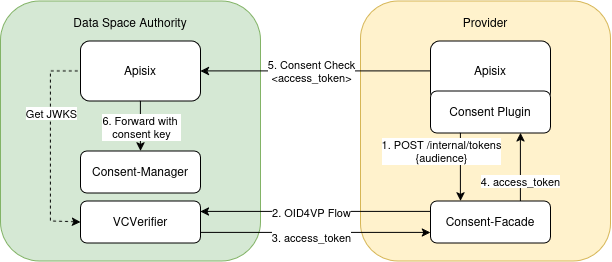
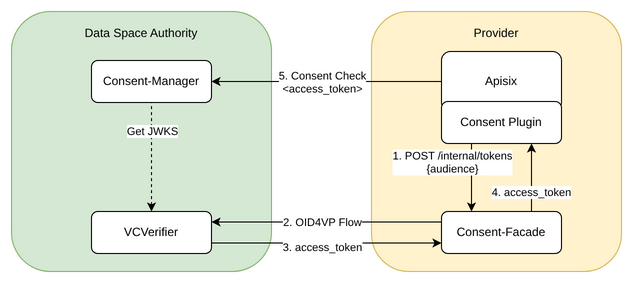
Ticket #109: ADR 0008, release notes 10.16.0 and doc links for dsc-consent-manager
Supersede ADRs 0001-0005 by ADR 0008, drop the authority APISIX hop from
the consent check flow diagram, add the 10.16.0 release notes and update
the consent links in the READMEs.

diff --git a/doc/adr/0008-dsc-consent-manager.md b/doc/adr/0008-dsc-consent-manager.md
@@ -1,0 +1,75 @@
+# 0008 - Replace the Node consent-manager with dsc-consent-manager on PostgreSQL
+
+**Status:** Accepted
+**Date:** 2026-11-02
+**Applies to:** `FIWARE/data-space-connector`, [dsc-consent-manager](https://github.com/wistefan/dsc-consent-manager), [consent-plugin](https://github.com/SEAMWARE/consent-plugin)
+**Supersedes:** [0001](0001-oid4vp-for-participant-authentication.md), [0002](0002-reuse-facade-oid4vp-client.md), [0003](0003-token-endpoint-not-consent-proxy.md), [0004](0004-map-oid4vp-tokens-to-participants-by-did.md), [0005](0005-vc-based-participant-onboarding.md)
+**Context doc:** [`../CONSENT_MANAGEMENT.md`](../CONSENT_MANAGEMENT.md)
+
+## Context
+
+ADRs 0001-0005 bolted OID4VP onto the Prometheus-X consent-manager (Node, MongoDB). That service
+authenticates its participant-side endpoints with one shared secret, the consent key, so the
+authority had to run an APISIX facade that validated the caller's OID4VP token and then injected the
+key. The key carried no caller identity, and the open gaps listed in the old design (identity lookups
+across participants, the bearer-equivalent user key, unauthenticated onboarding, client secrets stored
+on participant records) all needed changes in a codebase we do not own.
+
+`dsc-consent-manager` (Java, PostgreSQL, published as the
+`oci://quay.io/fiware/helm-charts/dsc-consent-manager` chart) is a stateless OAuth2 resource server.
+It validates the JWT of a configured identity provider on every call and takes the caller's identity
+and role from the token's claims. Its `/v1` API scopes every read to the caller, signs consent
+receipts, and derives privacy notices from the same contract-service API the consent-facade serves.
+
+## Decision
+
+- The trust-anchor chart (2.0.0) deploys `dsc-consent-manager` as the `consent-manager` subchart
+  alias, on the chart's Zalando `managedPostgres` (fixed user and database `consent_manager`). The
+  consent MongoDB, the consent key and the authority APISIX facade routes are removed. The authority
+  gateway only publishes the host and does not authenticate.
+- Every caller authenticates with a JWT from the authority VCVerifier service `consent-manager`
+  (audience `consent-manager`), which the consent-manager trusts as `identityProviders.primary`. The
+  verifier copies the credential's `type` array to `roles` and the MembershipCredential `issuer` to
+  `participant_id`. `roleMapping` turns `MembershipCredential` into `PARTICIPANT` and
+  `UserCredential` into `USER`. The verifier already enforces the credential type per scope and
+  checks the issuer against the TIR, so no participant can grant itself a role.
+- Participants register themselves (`POST /v1/participants`); the identifier is the DID in the
+  token, never the body. Data subjects register themselves (`POST /v1/users/register`); their
+  identifier is the token's `sub`, the holder DID.
+- A plain (non-hook) setup Job in the trust-anchor chart is the single owner of the two Secrets the
+  service reads: `consent-manager-env` (DB credentials copied from Zalando, log-pseudonym and
+  erasure keys, SMTP credentials) and `consent-manager-signing-keys` (the receipt signing JWK). It
+  creates keys once and never rotates them. Nothing uses `lookup`, so `helm install` and
+  `helm template | kubectl apply` behave the same ([ADR 0007](0007-test-both-deployment-paths.md)).
+- The consent-facade keeps both of its roles: at the authority it is the consent-manager's
+  `config.contractServiceUrl`; at the provider it is the plugin's token service
+  (`POST /internal/tokens`). The decisions of 0002 and 0003 carry over unchanged in that respect.
+- The provider's consent-filter plugin 1.0.0 calls the `/v1` API directly with that token. It
+  resolves the provider via `GET /v1/participants/me`, requires the consumer DID to be a registered
+  participant, and allows only a consent that is `consented` with matching provider and consumer.
+
+## Consequences
+
+- No shared secret is left in the consent path, and each answer is scoped to the authenticated caller.
+- Existing consent data is not migrated: MongoDB records have to be re-granted under the new service.
+  The trust-anchor chart takes a major bump (2.0.0) and `fail`s on the removed values. The DSC chart
+  only changes docs and comments (10.16.0).
+- External Postgres is not supported in trust-anchor 2.0.0: the setup Job depends on the Zalando
+  secrets.
+- The plugin and its route config must be upgraded together (1.0.0 drops `consent_api_host` and
+  the key options).
+- The consent-manager looks contract parties up by participant DID, while contract-management writes
+  self-description URLs into an agreement's `provider-id` / `consumer-id`. Privacy-notice generation
+  from a marketplace purchase therefore fails until one side maps between them (an upstream fix).
+- VCVerifier 6.27.0 does not compare a `jwt_vc_json` credential's `vc.issuer` with the signed `iss`,
+  so a hand-crafted VC can still name another DID as `participant_id` until upstream rejects that
+  mismatch.
+
+## Alternatives considered
+
+- **Keep the Node consent-manager and close its gaps upstream.** Every gap needed a change in a
+  codebase outside the project, and the shared key would remain the trust root of the facade.
+- **Keep an authenticating gateway in front of the new service.** It would duplicate the JWT check
+  the service already performs and reintroduce a second place for the auth configuration.
+- **Generate the Secrets with Helm `lookup`.** `lookup` is empty under `helm template`, so keys would
+  rotate on every render of the GitOps / CI path.

diff --git a/doc/release-notes/10-x.md b/doc/release-notes/10-x.md
@@ -7,6 +7,45 @@ The two drivers of this release are:
 1. **The Bitnami Keycloak Helm chart was withdrawn**, so the umbrella now depends on the [CloudPirates Keycloak chart](https://github.com/CloudPirates-io/helm-charts/tree/main/charts/keycloak). The CloudPirates chart targets the upstream Quarkus image (`quay.io/keycloak/keycloak`) and exposes a different `values.yaml` shape than Bitnami's, so the entire `keycloak:` configuration block must be rewritten.
 2. **Keycloak 26.4 redesigned OID4VCI** ([keycloak/keycloak#39768](https://github.com/keycloak/keycloak/pull/39768)). The realm-attribute scheme `vc.<name>.*` and the `components.CredentialBuilder` block are gone; per-credential configuration moved to `ClientScope` attributes on scopes with `protocol: "oid4vc"`, and several mapper config keys were renamed or removed. The DSC chart's `realm.verifiableCredentials` API has been adjusted accordingly.
 
+## 10.16.0 — consent management moves to dsc-consent-manager
+
+The consent-manager of the consent management scenario is replaced: the Prometheus-X service
+(Node, MongoDB, a shared consent key, APISIX facade routes at the authority) gives way to
+[dsc-consent-manager](https://github.com/wistefan/dsc-consent-manager) (Java, PostgreSQL), which
+validates the JWT of the authority's VCVerifier on every call. See
+[ADR 0008](../adr/0008-dsc-consent-manager.md) and
+[Consent Management](../CONSENT_MANAGEMENT.md), which also describes the migration.
+
+**The data-space-connector chart itself only changes docs and comments.** No value was removed or
+renamed, hence the minor bump. A provider that does not use consent management has nothing to do.
+
+The breaking changes for consent users are elsewhere:
+
+- **trust-anchor chart 2.0.0** deploys `dsc-consent-manager` 0.1.0 under the unchanged
+  `consent-manager` key.
+  - The consent MongoDB and its values are gone. The service stores its data in the chart's
+    Zalando `managedPostgres`, under a user and database both fixed to `consent_manager`. External
+    Postgres is not supported.
+  - The consent key is gone. Callers authenticate with a JWT of the VCVerifier service
+    `consent-manager`, set with `consent-manager.identityProviders.primary`.
+  - A setup Job (`consentManagement.setup`) creates the `consent_manager` database on an existing
+    Postgres volume. It copies the database credentials into `consent-manager-env` and generates the
+    receipt signing key in `consent-manager-signing-keys`, once; it never rotates them.
+  - SMTP credentials come from `consentManagement.smtp.existingSecret`.
+  - The chart `fail`s on the removed values: `managedMongo`, `consentManagement.mongo`,
+    `consent-manager.mongo`, `consent-manager.secret.consentKey`, `consent-manager.externalIdp`,
+    `consent-manager.appEndpoint`, `consent-manager.contractService` and
+    `consent-manager.secrets.smtpUser`/`smtpPassword`.
+- **The provider's consent route needs consent-filter plugin 1.0.0**, which speaks only the `/v1`
+  API, so the image and the route config change together. `consent_api_url` points at the
+  consent-manager directly; there is no authority facade in between. `consent_api_host` and
+  `consent_key` are removed. `check_mode`, `consumer_claim`, `require_purpose` and
+  `require_contract` are new. Provider and consumer must both be registered participants at
+  the consent-manager.
+
+Consents stored in MongoDB are not migrated. Data subjects have to grant them again under the new
+service.
+
 ## 10.15.1 — OID4VP clients accept the verifier's own state
 
 Since 6.24.2, the VCVerifier puts its own session id in the `state` of the authorization request,

diff --git a/doc/adr/README.md b/doc/adr/README.md
@@ -5,19 +5,20 @@ Short records of decisions that are expensive to reverse or easy to re-litigate.
 
 | # | Decision | Status | Also in |
 |---|---|---|---|
-| [0001](0001-oid4vp-for-participant-authentication.md) | Authenticate participants to the consent-manager over OID4VP | Accepted | |
-| [0002](0002-reuse-facade-oid4vp-client.md) | Reuse the consent-facade's OID4VP client instead of implementing or importing OID4VP in Go | Accepted | `consent-facade` |
-| [0003](0003-token-endpoint-not-consent-proxy.md) | The facade exposes an internal token endpoint, not a consent proxy | Accepted | `consent-facade` |
-| [0004](0004-map-oid4vp-tokens-to-participants-by-did.md) | Map OID4VP tokens to participants by DID | Accepted | |
-| [0005](0005-vc-based-participant-onboarding.md) | Onboard participants with a verifiable credential, not client credentials | Proposed | |
+| [0001](0001-oid4vp-for-participant-authentication.md) | Authenticate participants to the consent-manager over OID4VP | Superseded by 0008 | |
+| [0002](0002-reuse-facade-oid4vp-client.md) | Reuse the consent-facade's OID4VP client instead of implementing or importing OID4VP in Go | Superseded by 0008 | `consent-facade` |
+| [0003](0003-token-endpoint-not-consent-proxy.md) | The facade exposes an internal token endpoint, not a consent proxy | Superseded by 0008 | `consent-facade` |
+| [0004](0004-map-oid4vp-tokens-to-participants-by-did.md) | Map OID4VP tokens to participants by DID | Superseded by 0008 | |
+| [0005](0005-vc-based-participant-onboarding.md) | Onboard participants with a verifiable credential, not client credentials | Superseded by 0008 | |
 | [0006](0006-eidas-validation-in-vcverifier.md) | Validate eIDAS certificate chains inside VCVerifier, not in an external DSS service | Accepted | |
 | [0007](0007-test-both-deployment-paths.md) | Test the charts both rendered and applied, and installed as Helm releases | Accepted | |
+| [0008](0008-dsc-consent-manager.md) | Replace the Node consent-manager with dsc-consent-manager on PostgreSQL | Accepted | |
 
 ADRs 0002 and 0003 constrain the consent-facade's own API, so they are **mirrored** in
 [consent-facade](https://github.com/SEAMWARE/consent-facade) under `doc/adr/` with the same numbers. This repository holds the
 canonical copy; change it here first.
 
-Design document ADRs 0001-0005 belong to:
+Design document ADRs 0001-0005 (superseded, kept for history) and 0008 belong to:
 [`../CONSENT_MANAGEMENT.md`](../CONSENT_MANAGEMENT.md). ADR 0006 belongs to
 [`../deployment-integration/eidas/README.md`](../deployment-integration/eidas/README.md). ADR 0007 belongs to
 [`../deployment-integration/local-deployment/LOCAL.MD`](../deployment-integration/local-deployment/LOCAL.MD).

diff --git a/charts/README.md b/charts/README.md
@@ -36,3 +36,9 @@ The Secret names the components expect (when `*.generatePasswords` is `false`) a
 
 The folder [trust-anchor](./trust-anchor) contains a minimal example of a Trust Anchor, provided as 
 a [Helm Umbrella Chart](https://helm.sh/docs/howto/charts_tips_and_tricks/#complex-charts-with-many-dependencies). Basically it consists of a Trusted Issuers Registry with an attached database. This is also used in the local deployment of a Minimum Viable Dataspace described [here](../doc/deployment-integration/local-deployment/LOCAL.MD).
+
+With `consentManagement.enabled`, the chart also runs the authority side of consent management: the
+[dsc-consent-manager](https://github.com/wistefan/dsc-consent-manager) on the chart's Zalando Postgres,
+a consent-facade as its contract service, and NetworkPolicies isolating both. Version 2.0.0 replaced the
+MongoDB-based consent-manager and its consent key, see [Consent Management](../doc/CONSENT_MANAGEMENT.md)
+and the [10.16.0 release notes](../doc/release-notes/10-x.md#10160--consent-management-moves-to-dsc-consent-manager).

diff --git a/README.md b/README.md
@@ -118,6 +118,7 @@ contain breaking changes. Important releases will be listed below, with addition
   * **9.1.0** — Optional end-to-end [OpenTelemetry distributed tracing](doc/deployment-integration/observability/README.md) across all DSC components
 * [10.x.x](doc/release-notes/10-x.md) - :warning: **Breaking changes** - Keycloak chart migration (Bitnami → CloudPirates), Keycloak 26.7.0 and OID4VCI realm model rewrite
   * **10.4.0** — :warning: Keycloak `java-keystore` keystores must move to `/opt/keycloak/data/<realm-name>/`
+  * **10.16.0** — [Consent management](doc/CONSENT_MANAGEMENT.md) moves to dsc-consent-manager on PostgreSQL; :warning: breaking for consent users through trust-anchor chart 2.0.0 and consent-filter plugin 1.0.0
 
 
 ## Components

diff --git a/doc/README.md b/doc/README.md
@@ -60,8 +60,9 @@ can be found here:
 
 Optional consent management (ISO/IEC TS 27560) - its architecture, trust model and the demo flow charts 
 (granting consent, consent-gated data access, authenticated projection) are documented here:
-* [Consent Management](./CONSENT_MANAGEMENT.md) - architecture, trust model, participant
-  authentication over OID4VP, and the end-to-end demo
+* [Consent Management](./CONSENT_MANAGEMENT.md) - the dsc-consent-manager at the authority,
+  authentication with the VCVerifier JWT, the consent-filter plugin, deployment, migration from the
+  MongoDB-based consent-manager, and the end-to-end demo
 * [Architecture Decision Records](./adr/README.md)
 
 

diff --git a/doc/adr/0005-vc-based-participant-onboarding.md b/doc/adr/0005-vc-based-participant-onboarding.md
@@ -1,6 +1,6 @@
 # 0005 - Onboard participants with a verifiable credential, not client credentials
 
-**Status:** Proposed (design only - not implemented)
+**Status:** Superseded by [0008](0008-dsc-consent-manager.md) (was: Proposed (design only - not implemented))
 **Date:** 2026-08-26
 **Applies to:** `FIWARE/data-space-connector`,  [Prometheus-X/consent-manager](https://github.com/Prometheus-X-association/consent-manager)
 **Context doc:** [`../CONSENT_MANAGEMENT.md`](../CONSENT_MANAGEMENT.md)

diff --git a/doc/adr/0002-reuse-facade-oid4vp-client.md b/doc/adr/0002-reuse-facade-oid4vp-client.md
@@ -1,6 +1,6 @@
 # 0002 - Reuse the consent-facade's OID4VP client instead of implementing or importing OID4VP in Go
 
-**Status:** Accepted
+**Status:** Superseded by [0008](0008-dsc-consent-manager.md) (was: Accepted)
 **Date:** 2026-08-26
 **Applies to:** `FIWARE/data-space-connector`, `[consent-facade](https://github.com/SEAMWARE/consent-plugin)`, `[consent-facade](https://github.com/SEAMWARE/consent-facade)`
 **Context doc:** [`../CONSENT_MANAGEMENT.md`](../CONSENT_MANAGEMENT.md)

diff --git a/doc/adr/0004-map-oid4vp-tokens-to-participants-by-did.md b/doc/adr/0004-map-oid4vp-tokens-to-participants-by-did.md
@@ -1,6 +1,6 @@
 # 0004 - Map OID4VP tokens to participants by DID
 
-**Status:** Accepted (implemented)
+**Status:** Superseded by [0008](0008-dsc-consent-manager.md) (was: Accepted (implemented))
 **Date:** 2026-08-26
 **Applies to:** `FIWARE/data-space-connector`, [Prometheus-X/consent-manager](https://github.com/Prometheus-X-association/consent-manager)
 **Context doc:** [`../CONSENT_MANAGEMENT.md`](../CONSENT_MANAGEMENT.md)

diff --git a/doc/adr/0003-token-endpoint-not-consent-proxy.md b/doc/adr/0003-token-endpoint-not-consent-proxy.md
@@ -1,6 +1,6 @@
 # 0003 - The facade exposes an internal token endpoint, not a consent proxy
 
-**Status:** Accepted
+**Status:** Superseded by [0008](0008-dsc-consent-manager.md) (was: Accepted)
 **Date:** 2026-08-26
 **Applies to:** `FIWARE/data-space-connector`, `[consent-facade](https://github.com/SEAMWARE/consent-facade)`
 **Context doc:** [`../CONSENT_MANAGEMENT.md`](../CONSENT_MANAGEMENT.md)

diff --git a/doc/adr/0001-oid4vp-for-participant-authentication.md b/doc/adr/0001-oid4vp-for-participant-authentication.md
@@ -1,6 +1,6 @@
 # 0001 - Authenticate participants to the consent-manager over OID4VP
 
-**Status:** Accepted
+**Status:** Superseded by [0008](0008-dsc-consent-manager.md) (was: Accepted)
 **Date:** 2026-08-26
 **Context doc:** [`../CONSENT_MANAGEMENT.md`](../CONSENT_MANAGEMENT.md)
 
